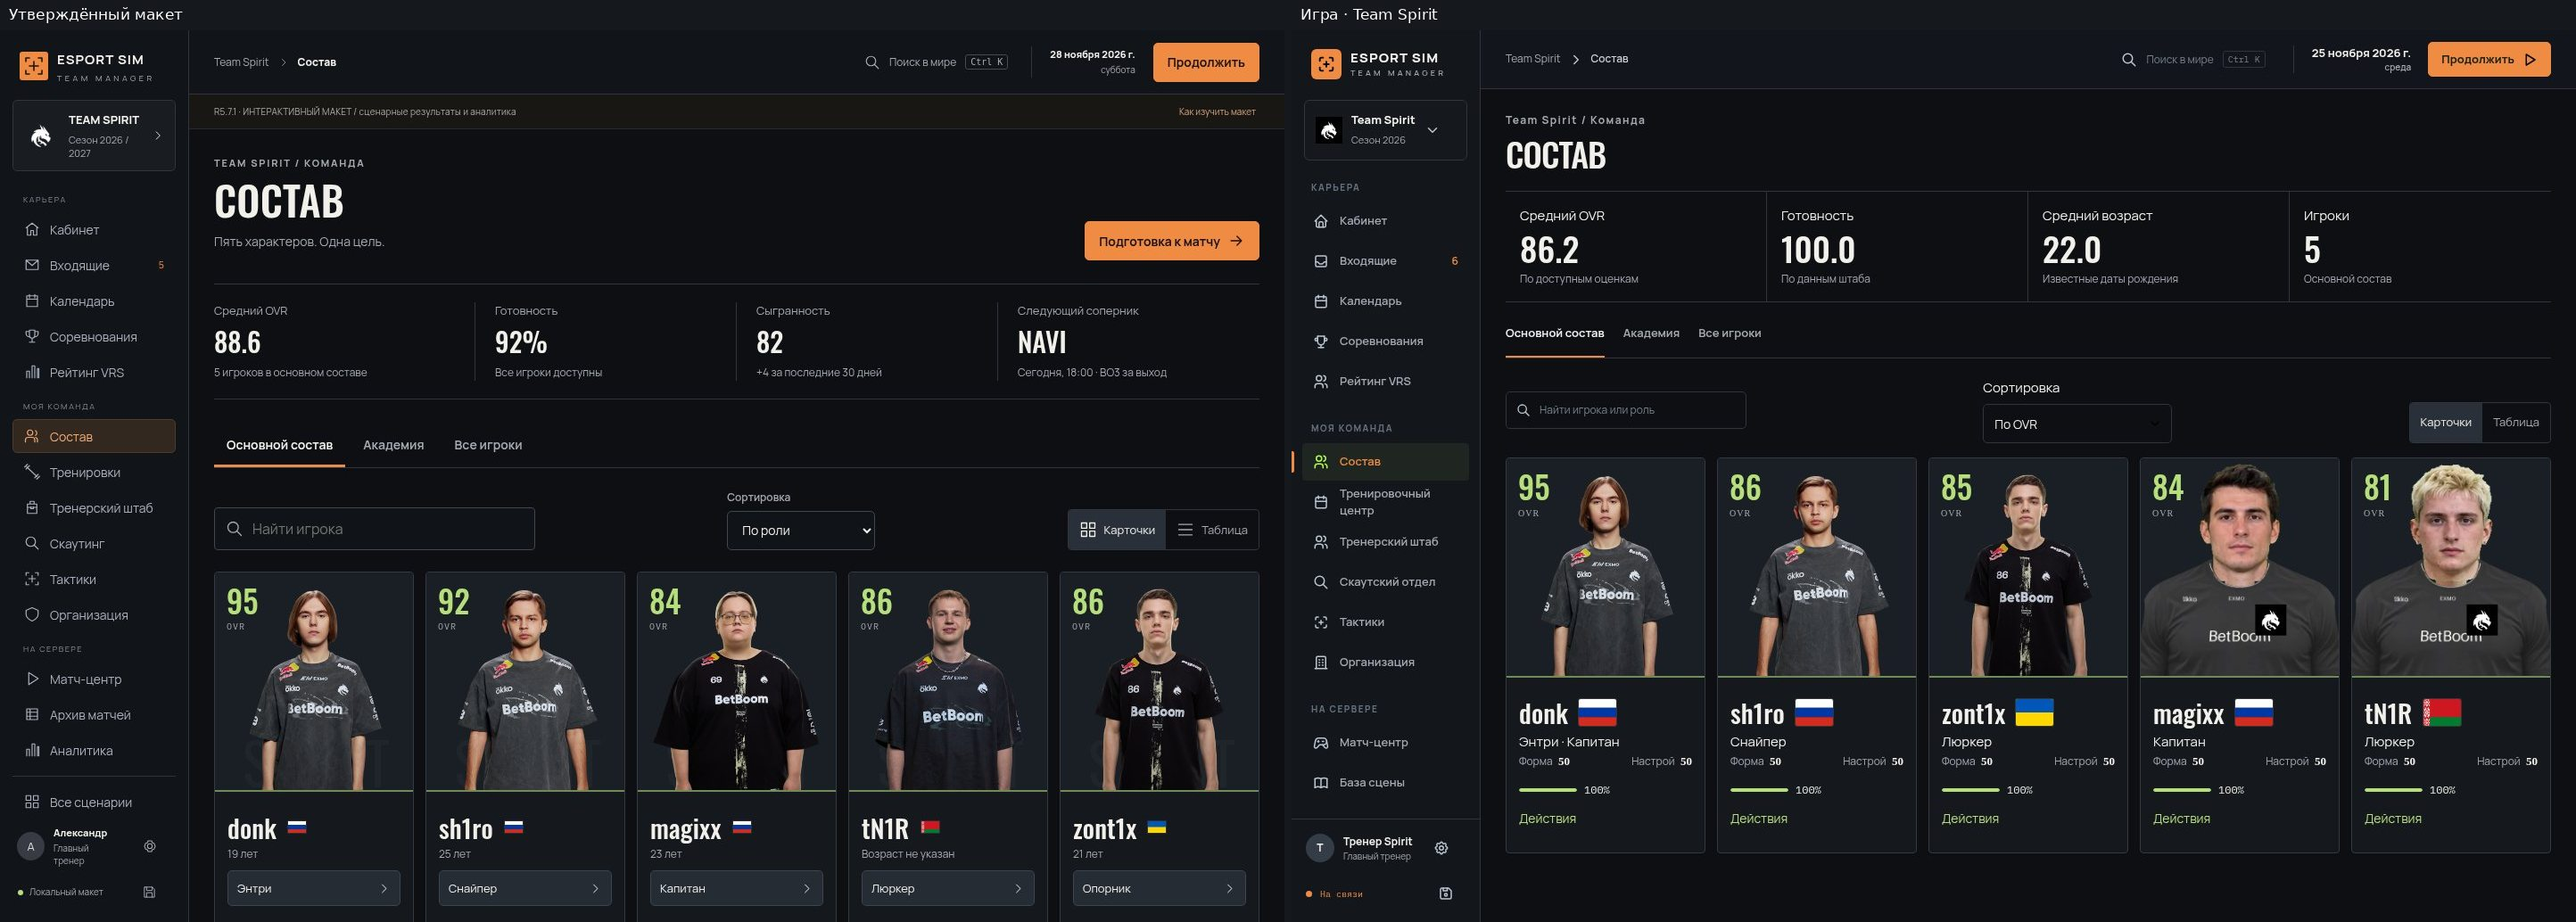
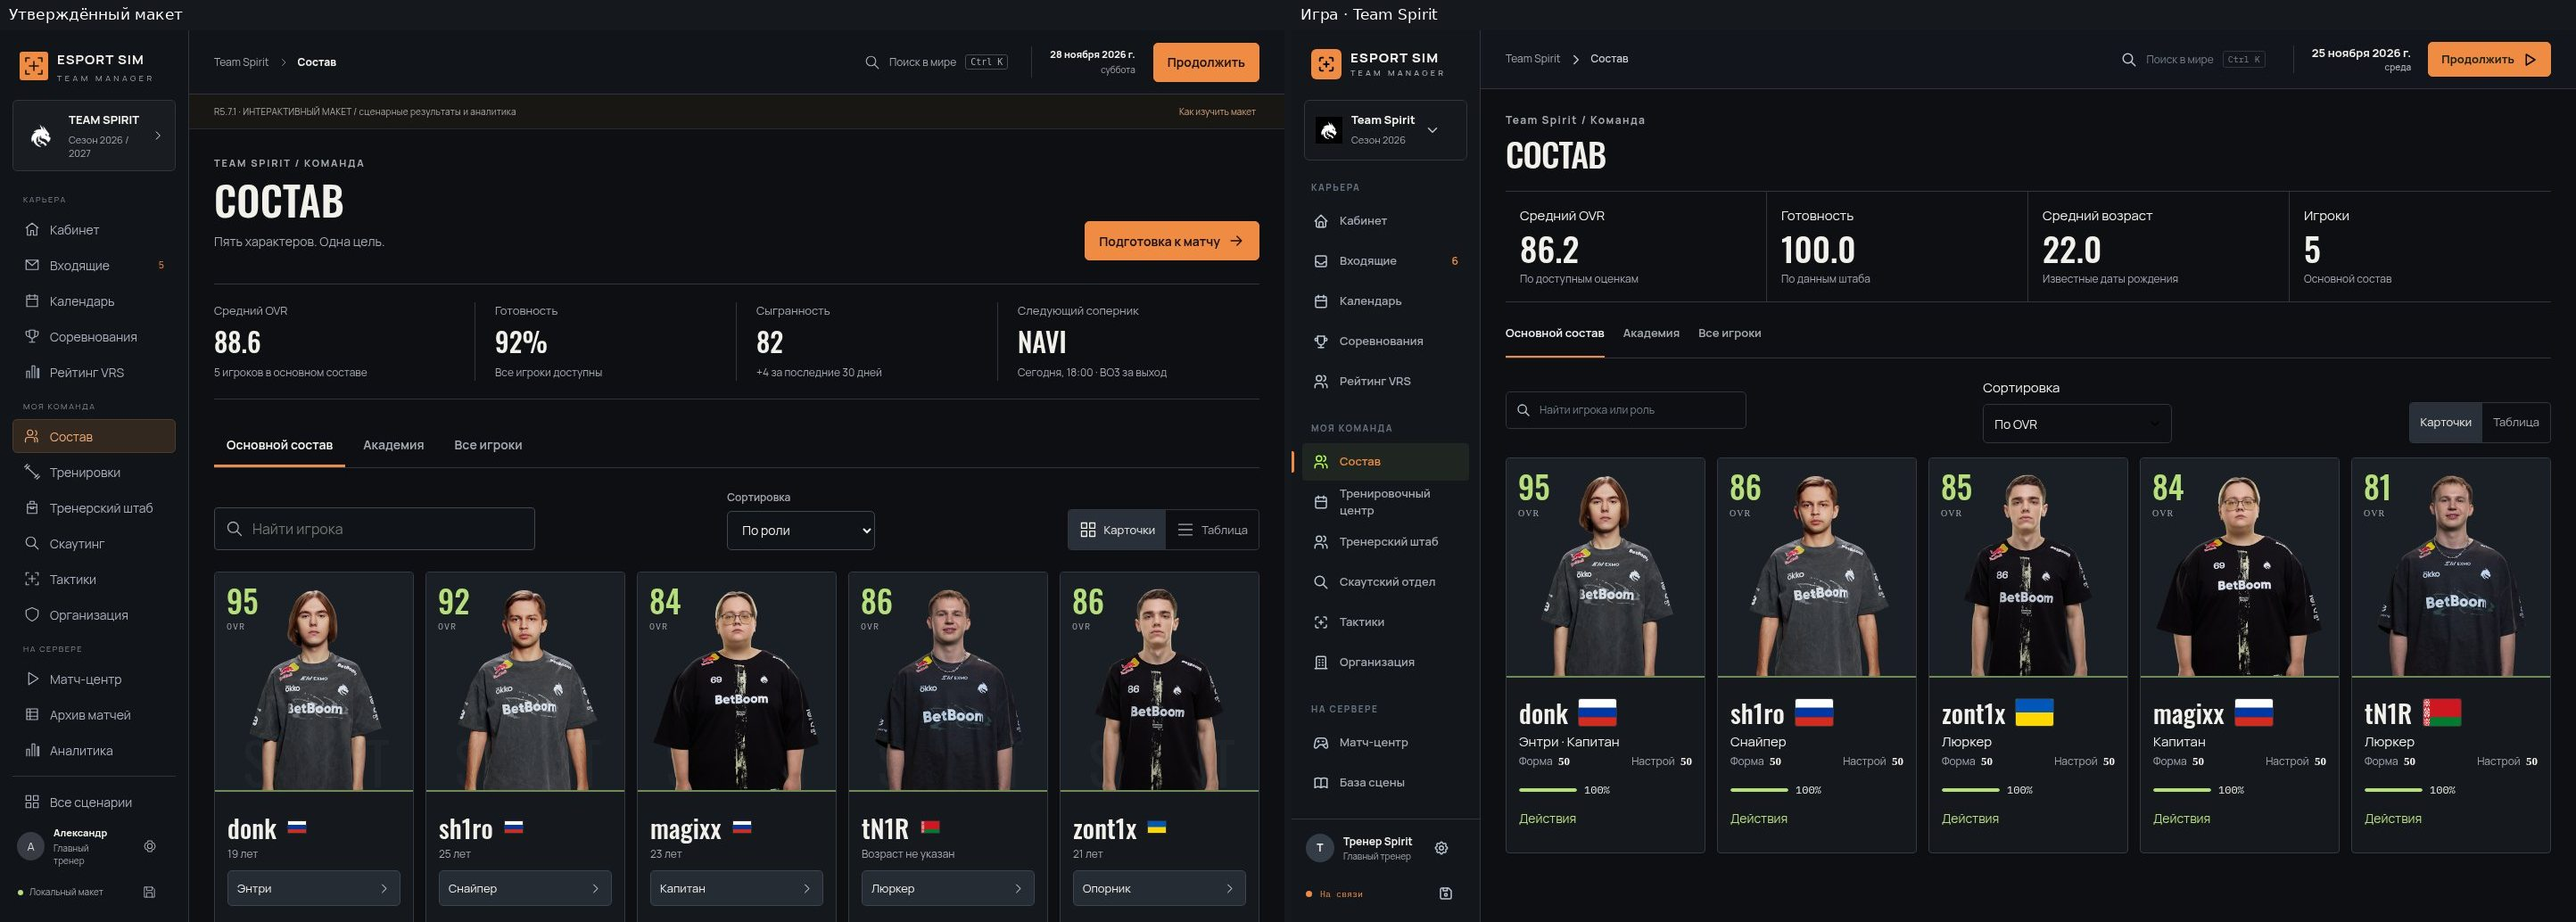
Подключить одиннадцать фотографий из личного пакета домашнего сервера

Changed region(s): [[0.8102, 0.4952, 0.9972, 0.7427]]

diff --git a/frontend/src/SceneIdentity.tsx b/frontend/src/SceneIdentity.tsx
@@ -1,4 +1,5 @@
 import { badgeSurface, GamePortrait, type ClubKit } from "./GamePortrait";
+import { serverURL } from "./session";
 import { useGarment } from "./wardrobe";
 import { useState } from "react";
 import { resolvePortrait, type PhotoRef } from "./portraits";
@@ -69,20 +70,27 @@ export type Visual = {
   player?: boolean;
   staff?: boolean;
   head?: string | null;
+  lineupPhoto?: {team:string; url:string};
   kit?: ClubKit | null;
 };
 const rosterPhotos: Record<string,string> = {
   "steam-76561198018303780": "donk", "p-f53da391aede75af17d6": "sh1ro", "steam-76561198995880877": "zont1x"
 };
 export function LineupPortrait({id,name,visual}: {id:string;name:string;visual:Visual}) {
-  const kit = visual.kit;
+  const bundled = rosterPhotos[id];
+  const lineupPhoto = visual.lineupPhoto || (bundled ? {team:"t-686f34552cee3bc3c46d",url:"/interface/menu/"+bundled+".png"} : undefined);
+  return <Avatar {...visual} lineupPhoto={lineupPhoto} name={name}/>;
+}
+
+function FullPortrait({name, head, kit, lineupPhoto}: {name:string} & Visual) {
   const personal = useGarment(kit?.id);
-  const photo = rosterPhotos[id];
-  if (photo && kit?.id === "t-686f34552cee3bc3c46d" && !kit.design && !personal &&
-      visual.head?.includes("/generated/") && !visual.photo) {
-    return <img className="scene-avatar roster-photo" src={"/interface/menu/"+photo+".png"} alt={name+" в форме "+kit.name}/>;
+  const [failed,setFailed] = useState("");
+  const path = lineupPhoto?.url;
+  if (path && path !== failed && kit?.id === lineupPhoto?.team && kit && !kit.design && !personal) {
+    const source = path.startsWith("/api/") ? serverURL(path).href : path;
+    return <img className="scene-avatar roster-photo" src={source} alt={name+" в форме "+kit.name} loading="lazy" onError={()=>setFailed(path)}/>;
   }
-  return <Avatar {...visual} name={name}/>;
+  return <GamePortrait name={name} head={head} kit={kit}/>;
 }
 export function Avatar({
   name,
@@ -95,10 +103,12 @@ export function Avatar({
   staff = false,
   head,
   kit,
+  lineupPhoto,
 }: { name: string } & Visual) {
   const asset = resolvePortrait(photo);
   const [failed, setFailed] = useState("");
   const src = url || asset?.image;
+  if (player && lineupPhoto && !photo && head?.includes("/generated/")) return <FullPortrait {...{name,head,kit,lineupPhoto}}/>;
   if (player) return <GamePortrait name={name} head={head} kit={kit} staff={staff} />;
   if (src && failed !== src)
     return (

diff --git a/frontend/src/PortraitImport.tsx b/frontend/src/PortraitImport.tsx
@@ -4,6 +4,7 @@ import { refreshWardrobe } from "./wardrobe";
 import { refKey, type Pack } from "./databaseModel";
 type Status = {
   state: string;
+  lineupCount?:number;
   pack?: string;
   revision?: number;
   message?: string;
@@ -78,14 +79,15 @@ export function PortraitImport({
     };
   }, [open, pack.id, pack.revision]);
   const [installed, setInstalled] = useState<number | null>(null);
+  const [hasLineup,setHasLineup] = useState(false);
   const [kitCount, setKitCount] = useState(0);
-  async function installFile(file: File) {
+  async function installFile(file: File, lineup=false) {
     setError("");
     setInstalled(null);
     setBusy(true);
     try {
       const response = await fetch(
-        serverURL("/api/portraits/" + refKey(pack) + "/offline"),
+        serverURL(lineup ? "/api/portraits/lineup-photos" : "/api/portraits/" + refKey(pack) + "/offline"),
         {
           method: "POST",
           credentials: "include",
@@ -97,6 +99,7 @@ export function PortraitImport({
         throw Error(result.detail || "Не удалось установить личные портреты");
       await onRefresh();
       await refreshWardrobe();
+      if (lineup) setHasLineup(true);
       setKitCount(result.kits || 0);
       setInstalled(result.installed);
     } catch (e) {
@@ -150,6 +153,14 @@ export function PortraitImport({
             }}
           />
         </label>
+        <label>Личные фотографии составов R5.7 (.zip)
+          <input type="file" accept=".zip" disabled={busy || running} onChange={e=>{
+            const file=e.currentTarget.files?.[0];
+            e.currentTarget.value="";
+            if (file) void installFile(file,true);
+          }}/></label>
+        <small>Подходит ZIP утверждённого макета или отдельный ZIP с 11 фотографиями из его папки players.</small>
+        {(hasLineup || (status?.lineupCount ?? 0) > 0) && <a href={serverURL("/api/portraits/lineup-photos.zip").href} download>Скачать отдельный личный ZIP</a>}
         {kitCount > 0 && (
           <p role="status">Подключено комплектов формы: {kitCount}</p>
         )}

diff --git a/backend/lineup_photos.py b/backend/lineup_photos.py
@@ -1,0 +1,60 @@
+"""Install the approved full-length club portraits in the private portrait library."""
+from contextlib import closing
+from functools import lru_cache
+from hashlib import sha256
+from io import BytesIO
+import json
+from pathlib import Path
+from zipfile import BadZipFile, ZipFile
+
+MAX_ARCHIVE = 80 * 1024 * 1024
+
+
+@lru_cache(1)
+def catalog():
+    return json.loads(Path(__file__).with_name("data").joinpath("lineup-photo-sources.json").read_text("utf-8"))
+
+
+def install(library, content):
+    if len(content) > MAX_ARCHIVE:
+        raise ValueError("Размер ZIP превышает 80 МиБ")
+    assets = []
+    try:
+        with ZipFile(BytesIO(content)) as archive:
+            for row in catalog().values():
+                names = (row["file"], "players/"+row["file"], "r571-prototype/public/assets/players/"+row["file"])
+                entries = [v for v in archive.infolist() if v.filename in names]
+                if len(entries) != 1 or entries[0].file_size != row["size"]:
+                    raise ValueError("В пакете отсутствует утверждённое изображение "+row["file"])
+                blob = archive.read(entries[0])
+                if sha256(blob).hexdigest() != row["sha256"]:
+                    raise ValueError("Изображение отличается от утверждённого файла "+row["file"])
+                assets.append((row["sha256"],blob))
+    except (BadZipFile, RuntimeError, NotImplementedError) as exc:
+        raise ValueError("Не удалось прочитать архив портретов") from exc
+    with closing(library.connection()) as db, db:
+        db.execute("BEGIN IMMEDIATE")
+        db.executemany("INSERT OR IGNORE INTO asset(digest,bytes) VALUES(?,?)",assets)
+    return {"installed":len(assets)}
+
+
+def index(library):
+    if library is None:
+        return {}
+    rows = catalog()
+    with closing(library.connection()) as db:
+        ids = [r["sha256"] for r in rows.values()]
+        stored = {r[0] for r in db.execute("SELECT digest FROM asset WHERE digest IN ("+
+                                           ",".join("?" for _ in ids)+")",ids)}
+    return {pid:dict(team=row["team"],url="/api/portraits/image/"+row["sha256"]) for pid,row in rows.items() if row["sha256"] in stored}
+
+
+def export(library):
+    output = BytesIO()
+    with closing(library.connection()) as db, ZipFile(output, "w") as archive:
+        for row in catalog().values():
+            stored = db.execute("SELECT bytes FROM asset WHERE digest=?", (row["sha256"],)).fetchone()
+            if not stored:
+                raise ValueError("Личный пакет ещё не установлен полностью")
+            archive.writestr(row["file"], stored[0])
+    return output.getvalue()

diff --git a/backend/portrait_api.py b/backend/portrait_api.py
@@ -2,7 +2,7 @@ from fastapi import APIRouter, HTTPException, Request
 from fastapi.responses import Response
 from starlette.concurrency import run_in_threadpool
 
-from . import database, personal_portraits, scene_portraits
+from . import lineup_photos, database, personal_portraits, scene_portraits
 
 
 def portrait_router(app):
@@ -10,7 +10,8 @@ def portrait_router(app):
 
     @routes.get("/status")
     async def status():
-        return app.state.store.portraits.status()
+        library = app.state.store.portraits
+        return dict(library.status(), lineupCount=len(lineup_photos.index(library)))
 
     @routes.post("/pause")
     async def pause():
@@ -52,6 +53,27 @@ def portrait_router(app):
             return scene_portraits.index(database.get(store.db, key, revision), store.portraits)
         except ValueError as exc:
             raise HTTPException(404, str(exc)) from exc
+
+    @routes.post("/lineup-photos")
+    async def install_lineup_photos(request: Request):
+        content = bytearray()
+        async for chunk in request.stream():
+            if len(content) + len(chunk) > lineup_photos.MAX_ARCHIVE:
+                raise HTTPException(413, "Размер ZIP превышает 80 МиБ")
+            content.extend(chunk)
+        try:
+            return await run_in_threadpool(lineup_photos.install, app.state.store.portraits, content)
+        except ValueError as exc:
+            raise HTTPException(422, str(exc)) from exc
+
+    @routes.get("/lineup-photos.zip")
+    def export_lineup_photos():
+        try:
+            data = lineup_photos.export(app.state.store.portraits)
+        except ValueError as exc:
+            raise HTTPException(404, str(exc)) from exc
+        return Response(data, media_type="application/zip", headers={
+            "Content-Disposition": 'attachment; filename="R5.7-private-lineup-photos.zip"', "Cache-Control":"private, no-store"})
 
     @routes.get("/kit-index")
     async def kit_index():

diff --git a/tests/test_lineup_photos.py b/tests/test_lineup_photos.py
@@ -1,0 +1,33 @@
+from hashlib import sha256
+from io import BytesIO
+from zipfile import ZipFile
+
+import pytest
+
+from backend import lineup_photos
+from backend.portrait_library import PortraitLibrary
+
+
+def archive(entries):
+    out = BytesIO()
+    with ZipFile(out, "w") as z:
+        for name, content in entries.items():
+            z.writestr(name, content)
+    return out.getvalue()
+
+
+def test_private_pack_is_atomic_idempotent_and_portable(tmp_path, monkeypatch):
+    library = PortraitLibrary(tmp_path / "personal.sqlite")
+    files = {"alpha.png": b"a", "beta.png": b"b"}
+    rows = {k:dict(team="test-team",file=k,size=len(v),sha256=sha256(v).hexdigest()) for k,v in files.items()}
+    monkeypatch.setattr(lineup_photos,"catalog",lambda: rows)
+    with pytest.raises(ValueError):
+        lineup_photos.install(library, archive(dict(files, **{"beta.png":b"c"})))
+    assert not lineup_photos.index(library)
+    with pytest.raises(ValueError):
+        lineup_photos.export(library)
+    for prefix in ("r571-prototype/public/assets/players/",""):
+        assert lineup_photos.install(library, archive({prefix+k:v for k,v in files.items()})) == {"installed":2}
+    with ZipFile(BytesIO(lineup_photos.export(library))) as z:
+        assert {k:z.read(k) for k in z.namelist()} == files
+    assert all(library.image(rows[pid]["sha256"]) == files[pid] for pid in lineup_photos.index(library))

diff --git a/backend/career_scene.py b/backend/career_scene.py
@@ -1,6 +1,6 @@
 """Public directory of the edition pinned to the active career."""
 
-from . import club_art, scene_portraits, staff
+from . import lineup_photos, club_art, scene_portraits, staff
 
 
 def directory(pack, badges, portraits, positions=None):
@@ -34,6 +34,7 @@ def directory(pack, badges, portraits, positions=None):
         for pid in team["members"]:
             membership.setdefault(pid, []).append(tid)
     players = {}
+    full_photos = lineup_photos.index(portraits)
     heads = scene_portraits.index(pack, portraits)
     for pid, row in pack["players"].items():
         p = identity("players", pid, row)
@@ -44,6 +45,8 @@ def directory(pack, badges, portraits, positions=None):
             latest = max(teams[club]["rosterDate"] for club in clubs)
             clubs = [club for club in clubs if teams[club]["rosterDate"] == latest]
         tid = clubs[0] if len(clubs) == 1 else None
+        if pid in full_photos:
+            p["visual"]["lineupPhoto"] = full_photos[pid]
         p["visual"].update(player=True, head=media + "appearance/" + pid if row.get("appearance")
                            else heads.get(pid, {}).get("image"))
         if tid:

diff --git a/backend/career.py b/backend/career.py
@@ -4,7 +4,7 @@ import hashlib
 from datetime import timedelta
 from uuid import uuid4
 
-from . import scouting, training, round_sim, staff, competitions, registrations, cs2_maps, database, match, series, veto, world
+from . import lineup_photos, scouting, training, round_sim, staff, competitions, registrations, cs2_maps, database, match, series, veto, world
 from .database import require
 
 VERSION = 1
@@ -236,6 +236,9 @@ def match_domain(pack, c, event, badges=None, portraits=None):
             domain["staff"][sid] = dict(domain["staff"][sid], matchRole=role)
     domain["managerPlayers"] = list(manager_players)
     if portraits:
+        for pid, photo in lineup_photos.index(portraits).items():
+            if pid in domain["players"]:
+                domain["players"][pid]["visual"]["lineupPhoto"] = photo
         for pid, portrait in portraits.index(
             {pid: pack["players"][pid] for pid in domain["players"]}
         ).items():

diff --git a/docs/r57/COVERAGE.md b/docs/r57/COVERAGE.md
@@ -43,3 +43,5 @@
 Протокол сохраняет историческую принадлежность игроков. Если один из исходных протоколов не содержит счётчика, для суммарного показателя показывается прочерк. При отсутствии данных для MVP награда не присуждается. Для старой версии правил подробного ядра и существующих контрольных точек данные о первых смертях остаются неизвестными. Новые карты текущего подробного ядра учитывают первую смерть вместе с первым убийством. Быстрое ядро хранит эти события в протоколе раунда. Доступные данные по гранатам зависят от ядра. Базовые счётчики, экономические и пространственные события имеют разную полноту.
 
 Визуальная приёмка остаётся открытой. В частности, на парных кадрах видны различия оболочки навигации, кнопок заголовка профиля и панелей обзора. Доступные изображения игроков определяются реестром игровых ассетов и настройками студии пользователя. Пары сняты в браузере на Linux.
+
+Личный пакет содержит 11 дополнительных фотографий NAVI, Vitality и Team Spirit. В редакторе базы откройте «Студийные портреты» и выберите «Личные фотографии составов R5.7 (.zip)». Принимается исходный ZIP макета из трёх присланных томов или ZIP с одиннадцатью PNG из папки players. Сервер сверяет размер и SHA-256 каждого изображения с реестром, затем устанавливает весь комплект одной транзакцией в личную библиотеку домашнего сервера. В игре снимок доступен для зарегистрированной пары игрока и клуба. Индивидуальная голова, личная или изменённая клубная форма имеют приоритет.
